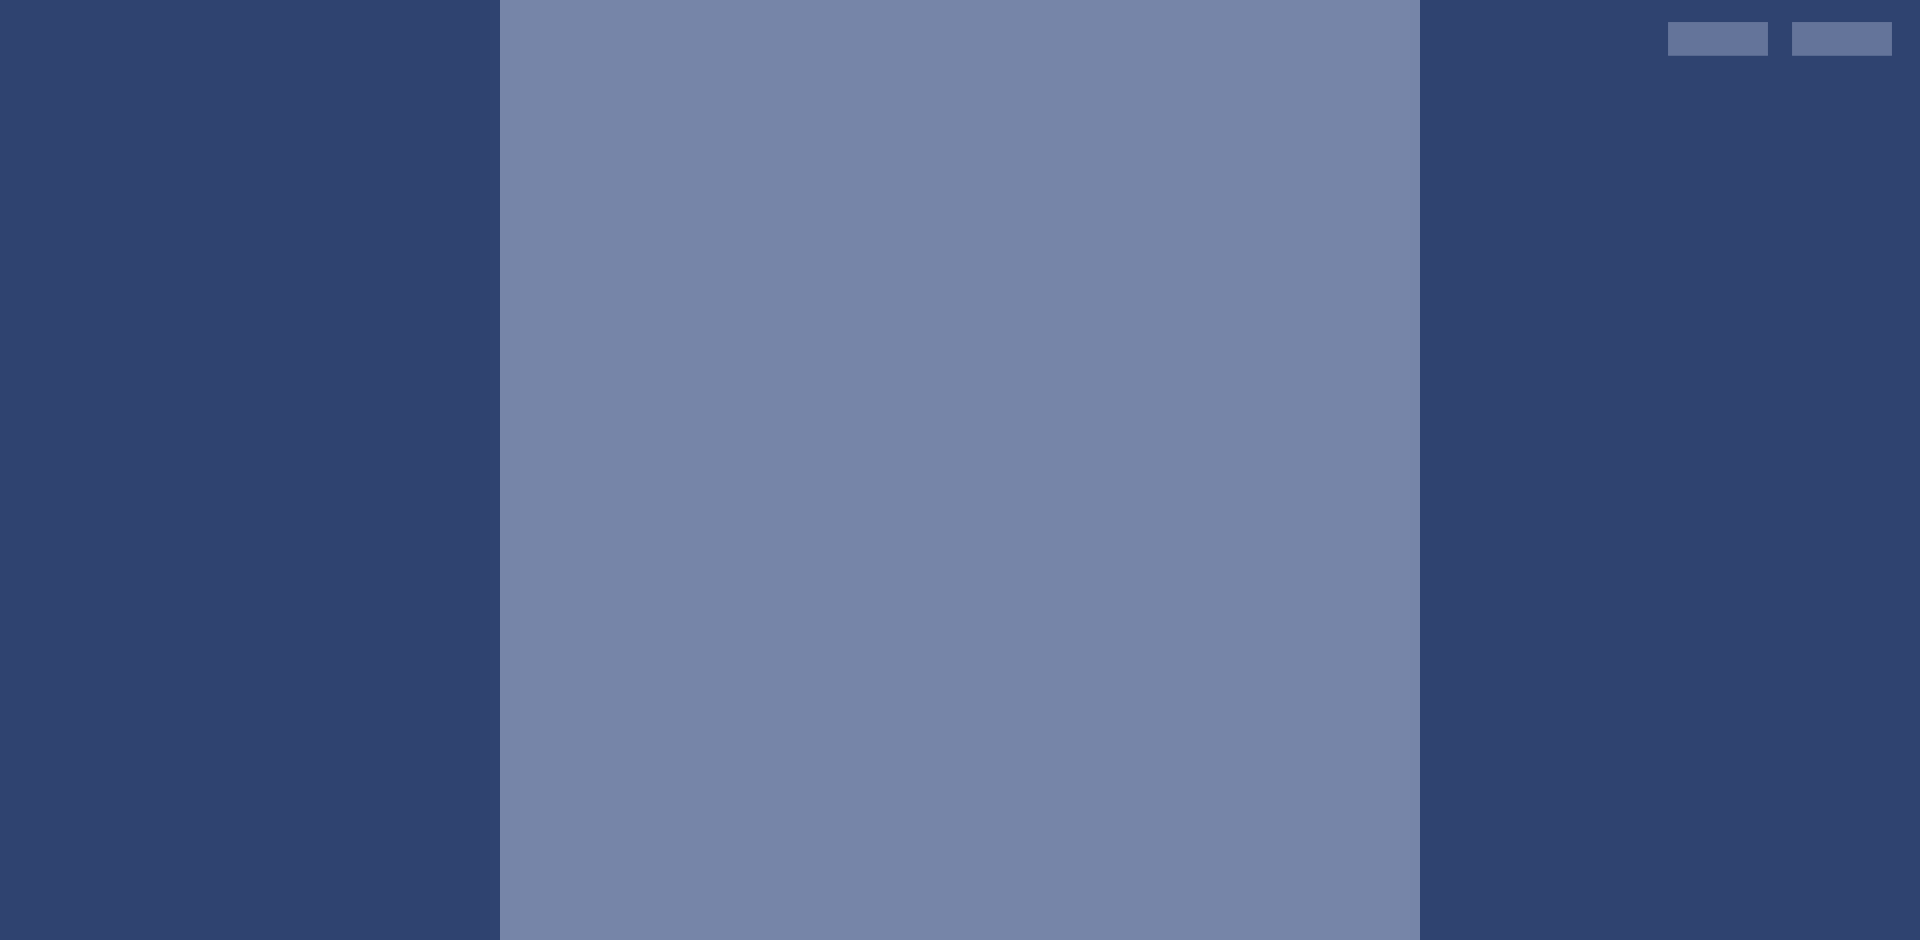
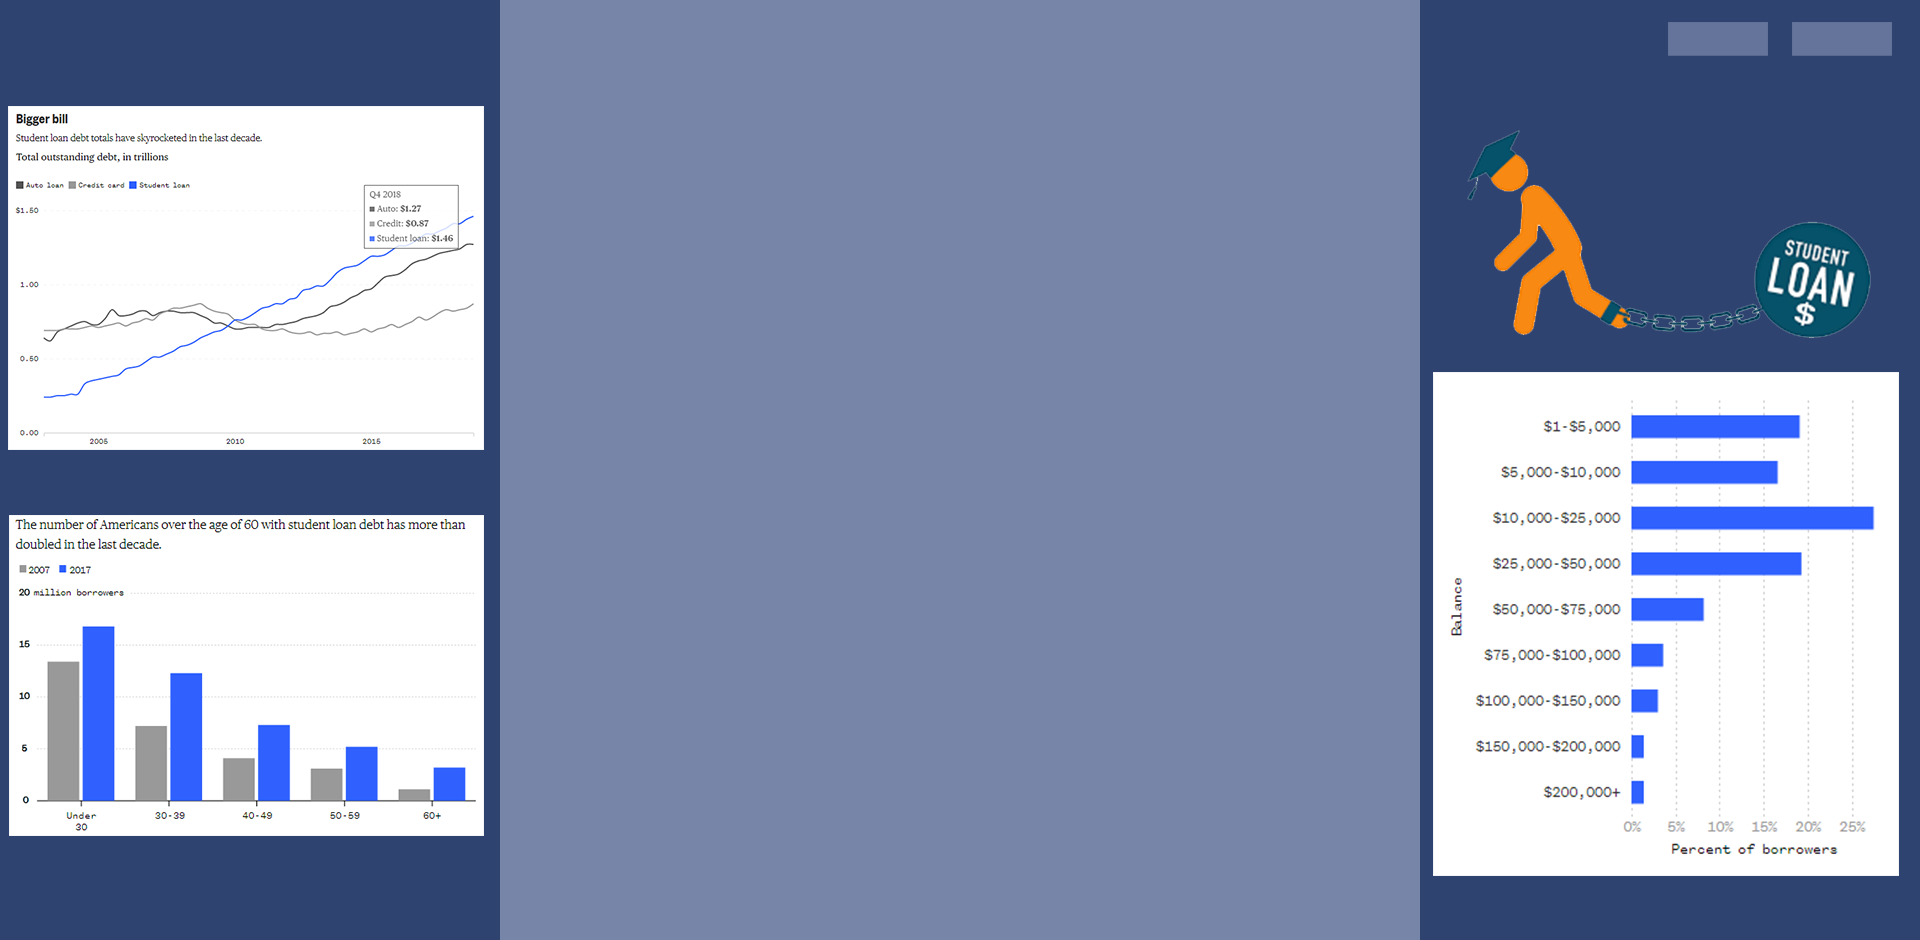
added images

diff --git a/style1.css b/style1.css
@@ -59,3 +59,9 @@ h2{
     padding-top: 110px;
     font-family: 'Trebuchet MS', 'Lucida Sans Unicode', 'Lucida Grande', 'Lucida Sans', Arial, sans-serif;
 }
+.image1{
+
+}
+.image2{
+
+}

diff --git a/index.html b/index.html
@@ -5,7 +5,7 @@
 </head>
 <body>
     <div class="left">
-
+    
     </div>
         <div class="body">
             <h1>Fighting an uphill battle </h1>

diff --git a/style2.css b/style2.css
@@ -1,5 +1,5 @@
 body{
-    background-image: url(WireFrame1.png);
+    background-image: url(WireFrame2.png);
 }
 .body{
     width: 920px;
